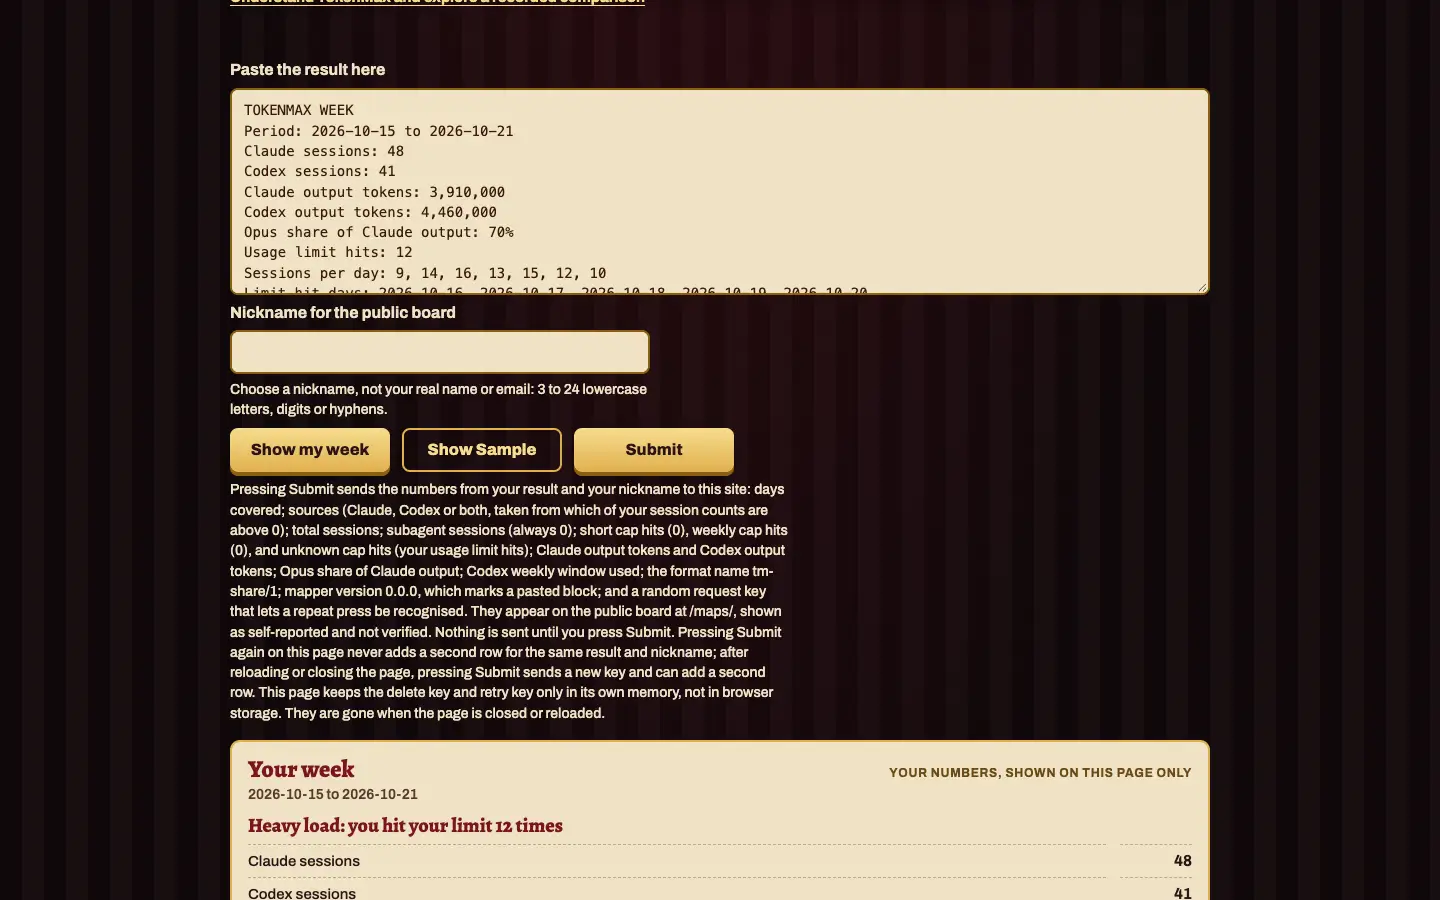
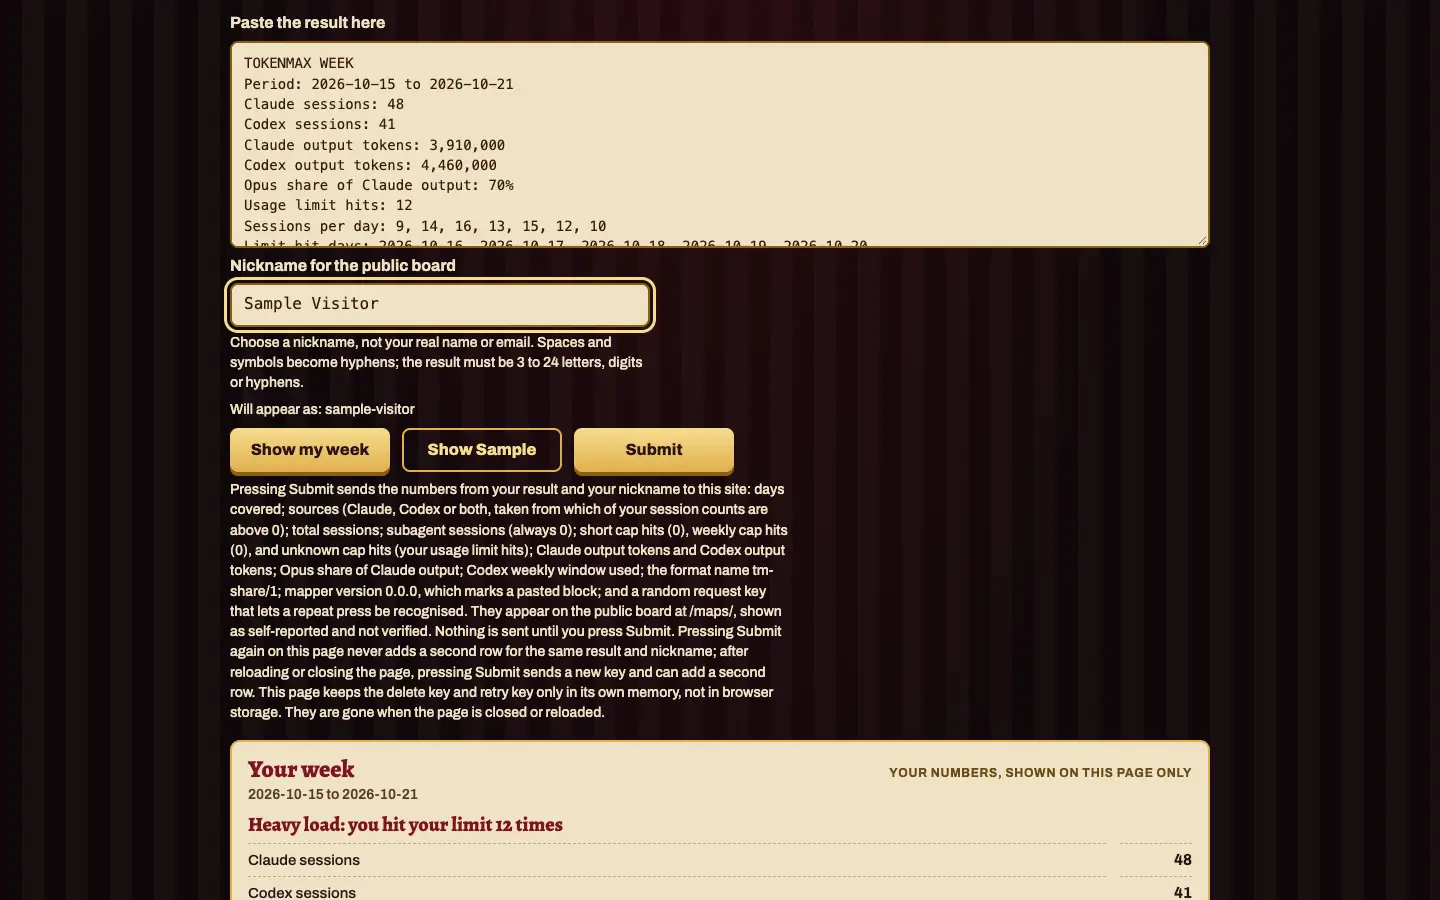
feat(guide): recapture on main 0cbedbb (#404 hint, #398 preview)
Step 5 now shows the sample nickname, the new hint and the
"Will appear as: sample-visitor" line. minFiles 167 for the merged tree.
Images total 474,300 bytes.

Claude-Session: https://claude.ai/code/session_01MJX13wiLZRptsEaDh6W7xJ

diff --git a/site/guide/index.html b/site/guide/index.html
@@ -31,7 +31,7 @@
 <ol class="tokenmax-steps">
 <li>Open <a href="/tm/">/tm/</a> and press <strong>Show Sample</strong> to see a sample week. Press <strong>Play my week</strong> to watch it; <strong>Replay</strong> runs it again, and <strong>Skip to the end</strong> appears while a week plays and jumps to the end.<figure class="step-shot"><img src="img/step-1-sample.webp" width="1440" height="900" alt="The TokenMax page after Show Sample and Play my week: the sample week has played to its end, with a Replay button under the stage." loading="lazy"></figure></li>
 <li>Press <strong>Copy for Claude Code or Codex</strong>, paste the prompt into Claude Code or Codex and run it. A plain chat app that cannot open local files often cannot read the history.<figure class="step-shot"><img src="img/step-2-copy.webp" width="1440" height="900" alt="The Map your real week section: the prompt shown in full, the Copy for Claude Code or Codex button and the message saying it was copied." loading="lazy"></figure></li>
-<li>Copy the <code>TOKENMAX WEEK</code> block it prints and paste it into <strong>Paste the result here</strong>. Press <strong>Show my week</strong> if it does not appear by itself. Your week shows on the page only; pasting and Show my week send nothing.<figure class="step-shot"><img src="img/step-3-paste.webp" width="1440" height="1121" alt="A synthetic TOKENMAX WEEK block pasted into Paste the result here, and the Your week card showing those numbers on the page only." loading="lazy"></figure></li>
+<li>Copy the <code>TOKENMAX WEEK</code> block it prints and paste it into <strong>Paste the result here</strong>. Press <strong>Show my week</strong> if it does not appear by itself. Your week shows on the page only; pasting and Show my week send nothing.<figure class="step-shot"><img src="img/step-3-paste.webp" width="1440" height="1142" alt="A synthetic TOKENMAX WEEK block pasted into Paste the result here, and the Your week card showing those numbers on the page only." loading="lazy"></figure></li>
 <li>Press <strong>Play my week</strong> to watch your numbers play out.<figure class="step-shot"><img src="img/step-4-play.webp" width="1440" height="900" alt="After Play my week: the stage shows the pasted synthetic week, headed Your week, from your numbers, with five days marked limit hit." loading="lazy"></figure></li>
 <li>Optional: type a nickname in <strong>Nickname for the public board</strong> (3 to 24 letters, digits or hyphens; spaces and other characters are turned into hyphens and capitals into lowercase, and a line under the box shows the nickname that will be published before you press Submit; not your real name or email) and press <strong>Submit</strong>. What Submit sends is listed under the buttons, and nothing is sent until you press it. You get a receipt with a Board link, a map id and a key. Keep the key: <strong>remove my entry</strong> deletes the entry.<figure class="step-shot"><img src="img/step-5-submit.webp" width="1440" height="900" alt="The sample nickname Sample Visitor typed into Nickname for the public board, the line under it showing how it will appear, and the Submit button with the list of what Submit sends. Nothing has been sent." loading="lazy"></figure></li>
 <li>Find the board at <code>/maps/</code>, through <strong>See the shared maps</strong> on /tm/ or the Board link in your receipt. It lists maps newest first, self-reported and not verified.<figure class="step-shot"><img src="img/step-6-maps.webp" width="1440" height="235" alt="The top of the TokenMax map board at /maps/: its title and the note that every number is self-reported and not verified." loading="lazy"></figure></li>
